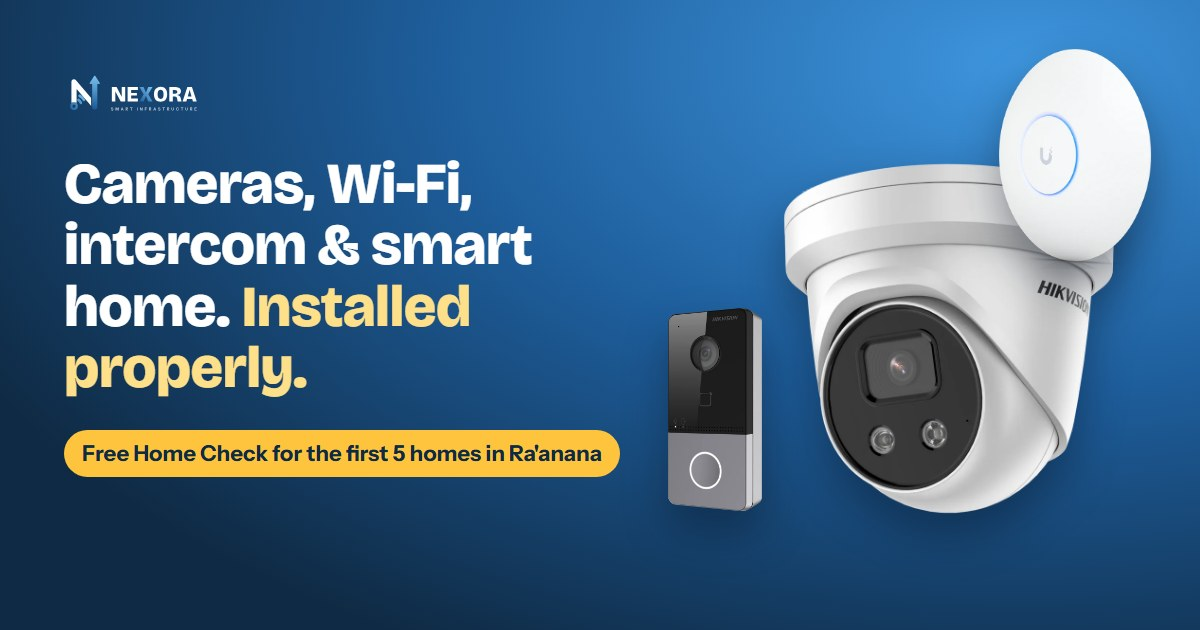
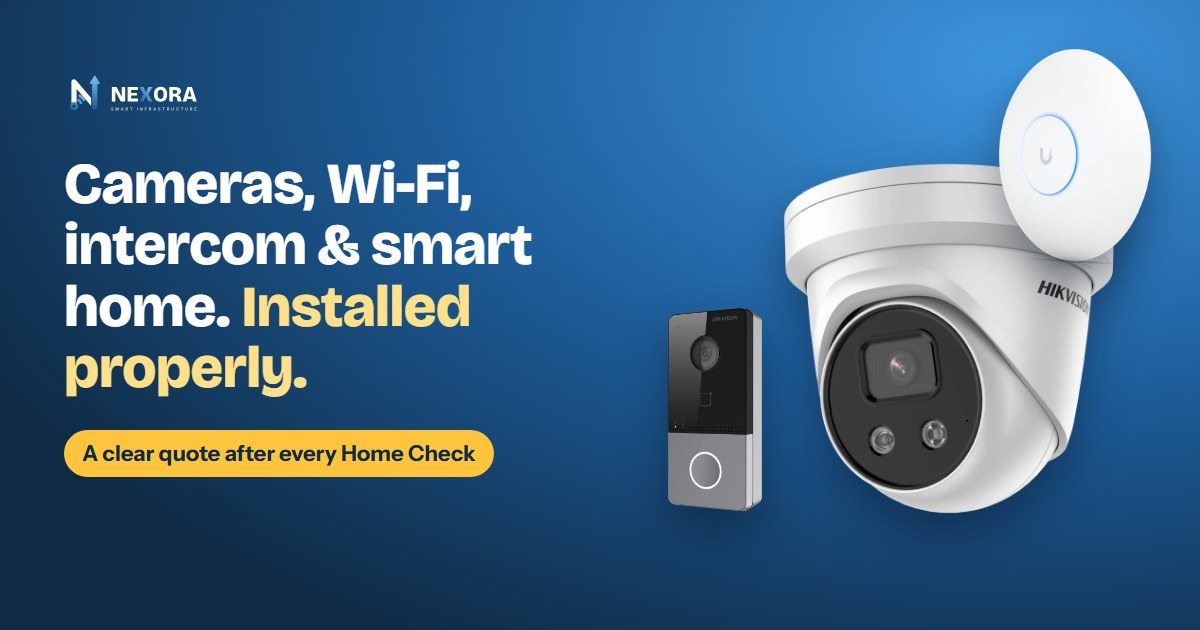
Remove the free Home Check offer (first 5 homes) from the site

Changed region(s): [[0.0617, 0.6635, 0.5242, 0.7841]]

diff --git a/he/index.html b/he/index.html
@@ -4,23 +4,23 @@
 <meta charset="utf-8">
 <meta name="viewport" content="width=device-width, initial-scale=1">
 <title>NEXORA · מצלמות, Wi-Fi ובית חכם ברעננה</title>
-<meta name="description" content="NEXORA מתקינה מצלמות אבטחה, Wi-Fi ורשת, אינטרקום וידאו ובית חכם ברעננה והשרון. בדיקת בית חינם ל-5 הבתים הראשונים.">
+<meta name="description" content="NEXORA מתקינה מצלמות אבטחה, Wi-Fi ורשת, אינטרקום וידאו ובית חכם ברעננה והשרון. בדיקת בית והצעת מחיר ברורה.">
 <link rel="canonical" href="https://nexoraraanana.github.io/he/"><link rel="alternate" hreflang="en" href="https://nexoraraanana.github.io/en/"><link rel="alternate" hreflang="fr" href="https://nexoraraanana.github.io/fr/"><link rel="alternate" hreflang="he" href="https://nexoraraanana.github.io/he/"><link rel="alternate" hreflang="x-default" href="https://nexoraraanana.github.io/">
 <meta property="og:type" content="website"><meta property="og:url" content="https://nexoraraanana.github.io/he/"><meta property="og:title" content="NEXORA · מצלמות, Wi-Fi ובית חכם ברעננה">
-<meta property="og:description" content="NEXORA מתקינה מצלמות אבטחה, Wi-Fi ורשת, אינטרקום וידאו ובית חכם ברעננה והשרון. בדיקת בית חינם ל-5 הבתים הראשונים."><meta property="og:image" content="https://nexoraraanana.github.io/img/og-he.jpg"><meta name="twitter:card" content="summary_large_image">
+<meta property="og:description" content="NEXORA מתקינה מצלמות אבטחה, Wi-Fi ורשת, אינטרקום וידאו ובית חכם ברעננה והשרון. בדיקת בית והצעת מחיר ברורה."><meta property="og:image" content="https://nexoraraanana.github.io/img/og-he.jpg"><meta name="twitter:card" content="summary_large_image">
 <meta name="theme-color" content="#0F2A44">
 <link rel="icon" href="../favicon.png"><link rel="apple-touch-icon" href="../apple-touch-icon.png">
 <link rel="preconnect" href="https://fonts.googleapis.com"><link rel="preconnect" href="https://fonts.gstatic.com" crossorigin>
 <link href="https://fonts.googleapis.com/css2?family=Bricolage+Grotesque:opsz,wght@12..96,700;12..96,800&family=Instrument+Sans:wght@400;600;700&family=Heebo:wght@400;600;700;800&display=swap" rel="stylesheet">
 <link rel="stylesheet" href="../site.css">
-<script type="application/ld+json">{"@context": "https://schema.org", "@type": "LocalBusiness", "name": "NEXORA", "description": "NEXORA מתקינה מצלמות אבטחה, Wi-Fi ורשת, אינטרקום וידאו ובית חכם ברעננה והשרון. בדיקת בית חינם ל-5 הבתים הראשונים.", "url": "https://nexoraraanana.github.io/he/", "telephone": "+972586497991", "email": "nexora.raanana@gmail.com", "image": "https://nexoraraanana.github.io/img/og-he.jpg", "sameAs": ["https://www.instagram.com/nexora.raanana/"], "inLanguage": "he", "areaServed": ["Ra'anana", "Kfar Saba", "Hod Hasharon", "Herzliya", "Sharon"]}</script>
+<script type="application/ld+json">{"@context": "https://schema.org", "@type": "LocalBusiness", "name": "NEXORA", "description": "NEXORA מתקינה מצלמות אבטחה, Wi-Fi ורשת, אינטרקום וידאו ובית חכם ברעננה והשרון. בדיקת בית והצעת מחיר ברורה.", "url": "https://nexoraraanana.github.io/he/", "telephone": "+972586497991", "email": "nexora.raanana@gmail.com", "image": "https://nexoraraanana.github.io/img/og-he.jpg", "sameAs": ["https://www.instagram.com/nexora.raanana/"], "inLanguage": "he", "areaServed": ["Ra'anana", "Kfar Saba", "Hod Hasharon", "Herzliya", "Sharon"]}</script>
 </head>
 <body>
 <header class="top"><div class="wrap">
   <a class="logo" href="./" aria-label="NEXORA"><img src="../img/logo.svg" alt="NEXORA" width="160" height="34"></a>
   <nav class="nav" aria-label="Menu"><a href="#services">שירותים</a><a href="#how">איך זה עובד</a><a href="#faq">שאלות</a><a href="#contact">צור קשר</a></nav>
   <div class="lang" aria-label="Language"><a href="../en/" lang="en">EN</a><a href="../fr/" lang="fr">FR</a><a href="../he/" lang="he" aria-current="page">עב</a></div>
-  <a class="btn wa" href="https://wa.me/972586497991?text=%D7%A9%D7%9C%D7%95%D7%9D%20NEXORA%2C%20%D7%90%D7%A9%D7%9E%D7%97%20%D7%9C%D7%91%D7%93%D7%99%D7%A7%D7%AA%20%D7%91%D7%99%D7%AA%20%D7%97%D7%99%D7%A0%D7%9D." target="_blank" rel="noopener"><svg viewBox="0 0 24 24" aria-hidden="true"><path d="M12 3a9 9 0 0 0-7.7 13.6L3 21l4.5-1.2A9 9 0 1 0 12 3z"/><path d="M9 8.5c0 3.6 2.9 6.5 6.5 6.5l1-1.6-2-1-1 1a4.5 4.5 0 0 1-2.4-2.4l1-1-1-2z"/></svg><span>058-649-7991</span></a>
+  <a class="btn wa" href="https://wa.me/972586497991?text=%D7%A9%D7%9C%D7%95%D7%9D%20NEXORA%2C%20%D7%90%D7%A9%D7%9E%D7%97%20%D7%9C%D7%AA%D7%90%D7%9D%20%D7%91%D7%93%D7%99%D7%A7%D7%AA%20%D7%91%D7%99%D7%AA." target="_blank" rel="noopener"><svg viewBox="0 0 24 24" aria-hidden="true"><path d="M12 3a9 9 0 0 0-7.7 13.6L3 21l4.5-1.2A9 9 0 1 0 12 3z"/><path d="M9 8.5c0 3.6 2.9 6.5 6.5 6.5l1-1.6-2-1-1 1a4.5 4.5 0 0 1-2.4-2.4l1-1-1-2z"/></svg><span>058-649-7991</span></a>
 </div></header>
 <main class="wrap">
   <section class="hero"><div class="in">
@@ -28,8 +28,8 @@
       <div class="kicker">תשתיות חכמות · רעננה והשרון</div>
       <h1>מצלמות, Wi-Fi, אינטרקום ובית חכם. <em>בהתקנה מקצועית.</em></h1>
       <p class="sub">NEXORA מתכננת ומתקינה תשתיות חכמות לבתים ולעסקים: Wi-Fi מהיר בכל חדר, מצלמות מאובטחות, אינטרקום וידאו ואוטומציות.</p>
-      <div class="ctas"><a class="btn wa" href="https://wa.me/972586497991?text=%D7%A9%D7%9C%D7%95%D7%9D%20NEXORA%2C%20%D7%90%D7%A9%D7%9E%D7%97%20%D7%9C%D7%91%D7%93%D7%99%D7%A7%D7%AA%20%D7%91%D7%99%D7%AA%20%D7%97%D7%99%D7%A0%D7%9D." target="_blank" rel="noopener"><svg viewBox="0 0 24 24" aria-hidden="true"><path d="M12 3a9 9 0 0 0-7.7 13.6L3 21l4.5-1.2A9 9 0 1 0 12 3z"/><path d="M9 8.5c0 3.6 2.9 6.5 6.5 6.5l1-1.6-2-1-1 1a4.5 4.5 0 0 1-2.4-2.4l1-1-1-2z"/></svg>דברו איתנו בוואטסאפ</a><a class="btn ghost" href="#book">לבדיקת בית חינם</a></div>
-      <div class="offer"><svg viewBox="0 0 24 24" aria-hidden="true"><path d="M5 12.5l4.5 4.5L19 7.5"/></svg>בדיקת בית חינם ל-5 הבתים הראשונים ברעננה</div>
+      <div class="ctas"><a class="btn wa" href="https://wa.me/972586497991?text=%D7%A9%D7%9C%D7%95%D7%9D%20NEXORA%2C%20%D7%90%D7%A9%D7%9E%D7%97%20%D7%9C%D7%AA%D7%90%D7%9D%20%D7%91%D7%93%D7%99%D7%A7%D7%AA%20%D7%91%D7%99%D7%AA." target="_blank" rel="noopener"><svg viewBox="0 0 24 24" aria-hidden="true"><path d="M12 3a9 9 0 0 0-7.7 13.6L3 21l4.5-1.2A9 9 0 1 0 12 3z"/><path d="M9 8.5c0 3.6 2.9 6.5 6.5 6.5l1-1.6-2-1-1 1a4.5 4.5 0 0 1-2.4-2.4l1-1-1-2z"/></svg>דברו איתנו בוואטסאפ</a><a class="btn ghost" href="#book">לתיאום בדיקת בית</a></div>
+      <div class="offer"><svg viewBox="0 0 24 24" aria-hidden="true"><path d="M5 12.5l4.5 4.5L19 7.5"/></svg>הצעת מחיר ברורה אחרי כל בדיקת בית</div>
     </div>
     <div class="stage" aria-hidden="true">
       <img class="i-villa" src="../img/villa.webp" alt="" width="200" height="400"><img class="i-turret" src="../img/turret.webp" alt="" width="400" height="420">
@@ -44,8 +44,8 @@
     <h3 class="h2" style="font-size:26px;margin-top:46px">למה NEXORA</h3><div class="why"><div><svg viewBox="0 0 24 24" aria-hidden="true"><path d="M12 21s-7-6.2-7-11.5a7 7 0 0 1 14 0C19 14.8 12 21 12 21z"/><circle cx="12" cy="9.5" r="2.5"/></svg><b>מקומיים, ברעננה</b><p>קרובים אליכם בהתקנה, וגם אחריה.</p></div><div><svg viewBox="0 0 24 24" aria-hidden="true"><path d="M4 5h16v11H9l-5 4z"/></svg><b>עברית, אנגלית וצרפתית</b><p>מדברים איתכם בשפה שלכם.</p></div><div><svg viewBox="0 0 24 24" aria-hidden="true"><path d="M12 3l8 3v6c0 4.8-3.4 8-8 9.5C7.4 20 4 16.8 4 12V6z"/><path d="M8.5 12l2.5 2.5 4.5-5"/></svg><b>מאובטח כברירת מחדל</b><p>רשת נפרדת למצלמות, קושחה מעודכנת, בלי פורטים פתוחים.</p></div><div><svg viewBox="0 0 24 24" aria-hidden="true"><path d="M3 11l9-7 9 7"/><path d="M5 10v10h14V10"/><path d="M10 20v-5h4v5"/></svg><b>המידע נשאר אצלכם</b><p>הקלטה ואוטומציות מקומיות, בלי חובת מנוי.</p></div></div></section>
 
   <section class="block" id="book"><div class="book">
-    <div><h2 class="h2">תיאום בדיקת בית חינם</h2><p class="lead">שלושה פרטים ואנחנו עונים בוואטסאפ.</p><div class="offer" style="margin-top:18px"><svg viewBox="0 0 24 24" aria-hidden="true"><path d="M5 12.5l4.5 4.5L19 7.5"/></svg>בדיקת בית חינם ל-5 הבתים הראשונים ברעננה</div></div>
-    <form class="form" data-wa="972586497991" data-tpl="שלום NEXORA, אשמח לבדיקת בית חינם.
+    <div><h2 class="h2">תיאום בדיקת בית</h2><p class="lead">שלושה פרטים ואנחנו עונים בוואטסאפ.</p><div class="offer" style="margin-top:18px"><svg viewBox="0 0 24 24" aria-hidden="true"><path d="M5 12.5l4.5 4.5L19 7.5"/></svg>הצעת מחיר ברורה אחרי כל בדיקת בית</div></div>
+    <form class="form" data-wa="972586497991" data-tpl="שלום NEXORA, אשמח לתאם בדיקת בית.
 שם: {name}
 עיר: {city}
 נושא: {needs}
@@ -59,11 +59,11 @@
     </form>
   </div></section>
 
-  <section class="block" id="faq"><h2 class="h2">שאלות נפוצות</h2><div class="faq"><details><summary>באילו אזורים אתם עובדים?</summary><p>רעננה, כפר סבא, הוד השרון, הרצליה וכל אזור השרון.</p></details><details><summary>כמה עולה בדיקת הבית?</summary><p>חינם ל-5 הבתים הראשונים ברעננה. אחרי הביקור מקבלים הצעת מחיר ברורה, בלי התחייבות.</p></details><details><summary>צריך מנוי חודשי למצלמות?</summary><p>לא. ההקלטה נשמרת אצלכם, במקליט. אפליקציות היצרנים לצפייה מרחוק חינמיות, ואחסון בענן הוא אופציה.</p></details><details><summary>אפשר להשתמש בכבלים או בצנרת הקיימים?</summary><p>לעיתים קרובות כן: בודקים לאן הצנרת מובילה ומשחילים Cat6 כשהיא מאפשרת.</p></details><details><summary>ומה לגבי עבודות חשמל?</summary><p>כל עבודה על רשת ה-230V מבוצעת על ידי חשמלאי מוסמך.</p></details><details><summary>אתם עובדים גם עם עסקים?</summary><p>כן: חנויות, משרדים, קליניקות ודירות להשכרה, וגם בתים פרטיים.</p></details></div></section>
+  <section class="block" id="faq"><h2 class="h2">שאלות נפוצות</h2><div class="faq"><details><summary>באילו אזורים אתם עובדים?</summary><p>רעננה, כפר סבא, הוד השרון, הרצליה וכל אזור השרון.</p></details><details><summary>מה כוללת בדיקת הבית?</summary><p>ביקור של כשעה: מדידת Wi-Fi בכל חדר, ואז בדיקה של המצלמות, הכבילה והבית החכם. אחרי הביקור מקבלים הצעת מחיר ברורה, בלי התחייבות.</p></details><details><summary>צריך מנוי חודשי למצלמות?</summary><p>לא. ההקלטה נשמרת אצלכם, במקליט. אפליקציות היצרנים לצפייה מרחוק חינמיות, ואחסון בענן הוא אופציה.</p></details><details><summary>אפשר להשתמש בכבלים או בצנרת הקיימים?</summary><p>לעיתים קרובות כן: בודקים לאן הצנרת מובילה ומשחילים Cat6 כשהיא מאפשרת.</p></details><details><summary>ומה לגבי עבודות חשמל?</summary><p>כל עבודה על רשת ה-230V מבוצעת על ידי חשמלאי מוסמך.</p></details><details><summary>אתם עובדים גם עם עסקים?</summary><p>כן: חנויות, משרדים, קליניקות ודירות להשכרה, וגם בתים פרטיים.</p></details></div></section>
 
   <section class="contact" id="contact">
     <div><h2 class="h2">צור קשר</h2><p style="margin-top:10px;color:#B9CADB">רעננה והשרון</p>
-      <a class="btn wa" style="margin-top:20px" href="https://wa.me/972586497991?text=%D7%A9%D7%9C%D7%95%D7%9D%20NEXORA%2C%20%D7%90%D7%A9%D7%9E%D7%97%20%D7%9C%D7%91%D7%93%D7%99%D7%A7%D7%AA%20%D7%91%D7%99%D7%AA%20%D7%97%D7%99%D7%A0%D7%9D." target="_blank" rel="noopener"><svg viewBox="0 0 24 24" aria-hidden="true"><path d="M12 3a9 9 0 0 0-7.7 13.6L3 21l4.5-1.2A9 9 0 1 0 12 3z"/><path d="M9 8.5c0 3.6 2.9 6.5 6.5 6.5l1-1.6-2-1-1 1a4.5 4.5 0 0 1-2.4-2.4l1-1-1-2z"/></svg>דברו איתנו בוואטסאפ</a></div>
+      <a class="btn wa" style="margin-top:20px" href="https://wa.me/972586497991?text=%D7%A9%D7%9C%D7%95%D7%9D%20NEXORA%2C%20%D7%90%D7%A9%D7%9E%D7%97%20%D7%9C%D7%AA%D7%90%D7%9D%20%D7%91%D7%93%D7%99%D7%A7%D7%AA%20%D7%91%D7%99%D7%AA." target="_blank" rel="noopener"><svg viewBox="0 0 24 24" aria-hidden="true"><path d="M12 3a9 9 0 0 0-7.7 13.6L3 21l4.5-1.2A9 9 0 1 0 12 3z"/><path d="M9 8.5c0 3.6 2.9 6.5 6.5 6.5l1-1.6-2-1-1 1a4.5 4.5 0 0 1-2.4-2.4l1-1-1-2z"/></svg>דברו איתנו בוואטסאפ</a></div>
     <ul>
       <li><a href="tel:+972586497991"><svg viewBox="0 0 24 24" aria-hidden="true"><path d="M5 4h4l2 5-2.5 1.5a11 11 0 0 0 5 5L15 13l5 2v4a2 2 0 0 1-2 2A16 16 0 0 1 3 6a2 2 0 0 1 2-2z"/></svg><span dir="ltr">058-649-7991</span></a></li>
       <li><a href="mailto:nexora.raanana@gmail.com"><svg viewBox="0 0 24 24" aria-hidden="true"><rect x="3" y="5" width="18" height="14" rx="2"/><path d="M3 7l9 6 9-6"/></svg>nexora.raanana@gmail.com</a></li>
@@ -72,7 +72,7 @@
   </section>
 </main>
 <footer>© 2026 NEXORA · תשתיות חכמות · רעננה</footer>
-<a class="fab" href="https://wa.me/972586497991?text=%D7%A9%D7%9C%D7%95%D7%9D%20NEXORA%2C%20%D7%90%D7%A9%D7%9E%D7%97%20%D7%9C%D7%91%D7%93%D7%99%D7%A7%D7%AA%20%D7%91%D7%99%D7%AA%20%D7%97%D7%99%D7%A0%D7%9D." target="_blank" rel="noopener" aria-label="WhatsApp"><svg viewBox="0 0 24 24" aria-hidden="true"><path d="M12 3a9 9 0 0 0-7.7 13.6L3 21l4.5-1.2A9 9 0 1 0 12 3z"/><path d="M9 8.5c0 3.6 2.9 6.5 6.5 6.5l1-1.6-2-1-1 1a4.5 4.5 0 0 1-2.4-2.4l1-1-1-2z"/></svg></a>
+<a class="fab" href="https://wa.me/972586497991?text=%D7%A9%D7%9C%D7%95%D7%9D%20NEXORA%2C%20%D7%90%D7%A9%D7%9E%D7%97%20%D7%9C%D7%AA%D7%90%D7%9D%20%D7%91%D7%93%D7%99%D7%A7%D7%AA%20%D7%91%D7%99%D7%AA." target="_blank" rel="noopener" aria-label="WhatsApp"><svg viewBox="0 0 24 24" aria-hidden="true"><path d="M12 3a9 9 0 0 0-7.7 13.6L3 21l4.5-1.2A9 9 0 1 0 12 3z"/><path d="M9 8.5c0 3.6 2.9 6.5 6.5 6.5l1-1.6-2-1-1 1a4.5 4.5 0 0 1-2.4-2.4l1-1-1-2z"/></svg></a>
 <script src="../site.js"></script>
 </body>
 </html>

diff --git a/fr/index.html b/fr/index.html
@@ -4,23 +4,23 @@
 <meta charset="utf-8">
 <meta name="viewport" content="width=device-width, initial-scale=1">
 <title>NEXORA · Caméras, Wi-Fi et maison connectée à Ra&#x27;anana</title>
-<meta name="description" content="NEXORA installe caméras de sécurité, Wi-Fi et Ethernet, interphones vidéo et maison connectée à Ra&#x27;anana et dans le Sharon. Home Check offert aux 5 premières maisons.">
+<meta name="description" content="NEXORA installe caméras de sécurité, Wi-Fi et Ethernet, interphones vidéo et maison connectée à Ra&#x27;anana et dans le Sharon. Home Check sur place et devis clair.">
 <link rel="canonical" href="https://nexoraraanana.github.io/fr/"><link rel="alternate" hreflang="en" href="https://nexoraraanana.github.io/en/"><link rel="alternate" hreflang="fr" href="https://nexoraraanana.github.io/fr/"><link rel="alternate" hreflang="he" href="https://nexoraraanana.github.io/he/"><link rel="alternate" hreflang="x-default" href="https://nexoraraanana.github.io/">
 <meta property="og:type" content="website"><meta property="og:url" content="https://nexoraraanana.github.io/fr/"><meta property="og:title" content="NEXORA · Caméras, Wi-Fi et maison connectée à Ra&#x27;anana">
-<meta property="og:description" content="NEXORA installe caméras de sécurité, Wi-Fi et Ethernet, interphones vidéo et maison connectée à Ra&#x27;anana et dans le Sharon. Home Check offert aux 5 premières maisons."><meta property="og:image" content="https://nexoraraanana.github.io/img/og-fr.jpg"><meta name="twitter:card" content="summary_large_image">
+<meta property="og:description" content="NEXORA installe caméras de sécurité, Wi-Fi et Ethernet, interphones vidéo et maison connectée à Ra&#x27;anana et dans le Sharon. Home Check sur place et devis clair."><meta property="og:image" content="https://nexoraraanana.github.io/img/og-fr.jpg"><meta name="twitter:card" content="summary_large_image">
 <meta name="theme-color" content="#0F2A44">
 <link rel="icon" href="../favicon.png"><link rel="apple-touch-icon" href="../apple-touch-icon.png">
 <link rel="preconnect" href="https://fonts.googleapis.com"><link rel="preconnect" href="https://fonts.gstatic.com" crossorigin>
 <link href="https://fonts.googleapis.com/css2?family=Bricolage+Grotesque:opsz,wght@12..96,700;12..96,800&family=Instrument+Sans:wght@400;600;700&family=Heebo:wght@400;600;700;800&display=swap" rel="stylesheet">
 <link rel="stylesheet" href="../site.css">
-<script type="application/ld+json">{"@context": "https://schema.org", "@type": "LocalBusiness", "name": "NEXORA", "description": "NEXORA installe caméras de sécurité, Wi-Fi et Ethernet, interphones vidéo et maison connectée à Ra'anana et dans le Sharon. Home Check offert aux 5 premières maisons.", "url": "https://nexoraraanana.github.io/fr/", "telephone": "+972586497991", "email": "nexora.raanana@gmail.com", "image": "https://nexoraraanana.github.io/img/og-fr.jpg", "sameAs": ["https://www.instagram.com/nexora.raanana/"], "inLanguage": "fr", "areaServed": ["Ra'anana", "Kfar Saba", "Hod Hasharon", "Herzliya", "Sharon"]}</script>
+<script type="application/ld+json">{"@context": "https://schema.org", "@type": "LocalBusiness", "name": "NEXORA", "description": "NEXORA installe caméras de sécurité, Wi-Fi et Ethernet, interphones vidéo et maison connectée à Ra'anana et dans le Sharon. Home Check sur place et devis clair.", "url": "https://nexoraraanana.github.io/fr/", "telephone": "+972586497991", "email": "nexora.raanana@gmail.com", "image": "https://nexoraraanana.github.io/img/og-fr.jpg", "sameAs": ["https://www.instagram.com/nexora.raanana/"], "inLanguage": "fr", "areaServed": ["Ra'anana", "Kfar Saba", "Hod Hasharon", "Herzliya", "Sharon"]}</script>
 </head>
 <body>
 <header class="top"><div class="wrap">
   <a class="logo" href="./" aria-label="NEXORA"><img src="../img/logo.svg" alt="NEXORA" width="160" height="34"></a>
   <nav class="nav" aria-label="Menu"><a href="#services">Services</a><a href="#how">Comment ça marche</a><a href="#faq">Questions</a><a href="#contact">Contact</a></nav>
   <div class="lang" aria-label="Language"><a href="../en/" lang="en">EN</a><a href="../fr/" lang="fr" aria-current="page">FR</a><a href="../he/" lang="he">עב</a></div>
-  <a class="btn wa" href="https://wa.me/972586497991?text=Bonjour%20NEXORA%2C%20je%20voudrais%20un%20Home%20Check%20offert." target="_blank" rel="noopener"><svg viewBox="0 0 24 24" aria-hidden="true"><path d="M12 3a9 9 0 0 0-7.7 13.6L3 21l4.5-1.2A9 9 0 1 0 12 3z"/><path d="M9 8.5c0 3.6 2.9 6.5 6.5 6.5l1-1.6-2-1-1 1a4.5 4.5 0 0 1-2.4-2.4l1-1-1-2z"/></svg><span>058-649-7991</span></a>
+  <a class="btn wa" href="https://wa.me/972586497991?text=Bonjour%20NEXORA%2C%20je%20voudrais%20r%C3%A9server%20un%20Home%20Check." target="_blank" rel="noopener"><svg viewBox="0 0 24 24" aria-hidden="true"><path d="M12 3a9 9 0 0 0-7.7 13.6L3 21l4.5-1.2A9 9 0 1 0 12 3z"/><path d="M9 8.5c0 3.6 2.9 6.5 6.5 6.5l1-1.6-2-1-1 1a4.5 4.5 0 0 1-2.4-2.4l1-1-1-2z"/></svg><span>058-649-7991</span></a>
 </div></header>
 <main class="wrap">
   <section class="hero"><div class="in">
@@ -28,8 +28,8 @@
       <div class="kicker">Smart Infrastructure · Ra'anana et le Sharon</div>
       <h1>Caméras, Wi-Fi, interphone et maison connectée. <em>Installés proprement.</em></h1>
       <p class="sub">NEXORA conçoit et installe l'infrastructure intelligente des maisons et des commerces : du Wi-Fi rapide dans chaque pièce, des caméras sécurisées, des interphones vidéo et des automatisations.</p>
-      <div class="ctas"><a class="btn wa" href="https://wa.me/972586497991?text=Bonjour%20NEXORA%2C%20je%20voudrais%20un%20Home%20Check%20offert." target="_blank" rel="noopener"><svg viewBox="0 0 24 24" aria-hidden="true"><path d="M12 3a9 9 0 0 0-7.7 13.6L3 21l4.5-1.2A9 9 0 1 0 12 3z"/><path d="M9 8.5c0 3.6 2.9 6.5 6.5 6.5l1-1.6-2-1-1 1a4.5 4.5 0 0 1-2.4-2.4l1-1-1-2z"/></svg>Écrivez-nous sur WhatsApp</a><a class="btn ghost" href="#book">Réserver un Home Check offert</a></div>
-      <div class="offer"><svg viewBox="0 0 24 24" aria-hidden="true"><path d="M5 12.5l4.5 4.5L19 7.5"/></svg>Home Check offert aux 5 premières maisons de Ra'anana</div>
+      <div class="ctas"><a class="btn wa" href="https://wa.me/972586497991?text=Bonjour%20NEXORA%2C%20je%20voudrais%20r%C3%A9server%20un%20Home%20Check." target="_blank" rel="noopener"><svg viewBox="0 0 24 24" aria-hidden="true"><path d="M12 3a9 9 0 0 0-7.7 13.6L3 21l4.5-1.2A9 9 0 1 0 12 3z"/><path d="M9 8.5c0 3.6 2.9 6.5 6.5 6.5l1-1.6-2-1-1 1a4.5 4.5 0 0 1-2.4-2.4l1-1-1-2z"/></svg>Écrivez-nous sur WhatsApp</a><a class="btn ghost" href="#book">Réserver un Home Check</a></div>
+      <div class="offer"><svg viewBox="0 0 24 24" aria-hidden="true"><path d="M5 12.5l4.5 4.5L19 7.5"/></svg>Un devis clair après chaque Home Check</div>
     </div>
     <div class="stage" aria-hidden="true">
       <img class="i-villa" src="../img/villa.webp" alt="" width="200" height="400"><img class="i-turret" src="../img/turret.webp" alt="" width="400" height="420">
@@ -44,8 +44,8 @@
     <h3 class="h2" style="font-size:26px;margin-top:46px">Pourquoi NEXORA</h3><div class="why"><div><svg viewBox="0 0 24 24" aria-hidden="true"><path d="M12 21s-7-6.2-7-11.5a7 7 0 0 1 14 0C19 14.8 12 21 12 21z"/><circle cx="12" cy="9.5" r="2.5"/></svg><b>Local, à Ra'anana</b><p>À côté de chez vous pour l'installation, et après.</p></div><div><svg viewBox="0 0 24 24" aria-hidden="true"><path d="M4 5h16v11H9l-5 4z"/></svg><b>Français, anglais, hébreu</b><p>Parlez-nous dans votre langue.</p></div><div><svg viewBox="0 0 24 24" aria-hidden="true"><path d="M12 3l8 3v6c0 4.8-3.4 8-8 9.5C7.4 20 4 16.8 4 12V6z"/><path d="M8.5 12l2.5 2.5 4.5-5"/></svg><b>Sécurisé par défaut</b><p>Un réseau séparé pour les caméras, un firmware à jour, aucun port ouvert.</p></div><div><svg viewBox="0 0 24 24" aria-hidden="true"><path d="M3 11l9-7 9 7"/><path d="M5 10v10h14V10"/><path d="M10 20v-5h4v5"/></svg><b>Vos données restent chez vous</b><p>Enregistrement et automatisations en local, sans abonnement obligatoire.</p></div></div></section>
 
   <section class="block" id="book"><div class="book">
-    <div><h2 class="h2">Réservez votre Home Check offert</h2><p class="lead">Trois informations et on vous répond sur WhatsApp.</p><div class="offer" style="margin-top:18px"><svg viewBox="0 0 24 24" aria-hidden="true"><path d="M5 12.5l4.5 4.5L19 7.5"/></svg>Home Check offert aux 5 premières maisons de Ra'anana</div></div>
-    <form class="form" data-wa="972586497991" data-tpl="Bonjour NEXORA, je voudrais un Home Check offert.
+    <div><h2 class="h2">Réservez votre Home Check</h2><p class="lead">Trois informations et on vous répond sur WhatsApp.</p><div class="offer" style="margin-top:18px"><svg viewBox="0 0 24 24" aria-hidden="true"><path d="M5 12.5l4.5 4.5L19 7.5"/></svg>Un devis clair après chaque Home Check</div></div>
+    <form class="form" data-wa="972586497991" data-tpl="Bonjour NEXORA, je voudrais réserver un Home Check.
 Nom : {name}
 Ville : {city}
 Sujet : {needs}
@@ -59,11 +59,11 @@ Sujet : {needs}
     </form>
   </div></section>
 
-  <section class="block" id="faq"><h2 class="h2">Questions fréquentes</h2><div class="faq"><details><summary>Où intervenez-vous ?</summary><p>Ra'anana, Kfar Saba, Hod Hasharon, Herzliya et tout le Sharon.</p></details><details><summary>Combien coûte le Home Check ?</summary><p>Il est offert aux 5 premières maisons de Ra'anana. Après la visite, vous recevez un devis clair, sans engagement.</p></details><details><summary>Faut-il un abonnement pour les caméras ?</summary><p>Non. L'enregistrement se fait chez vous, sur l'enregistreur. Les applis des fabricants pour regarder à distance sont gratuites ; le stockage dans le cloud est une option.</p></details><details><summary>Pouvez-vous utiliser mes gaines ou mes câbles existants ?</summary><p>Souvent, oui : on vérifie où vont les gaines existantes et on y passe du Cat6 quand elles le permettent.</p></details><details><summary>Et l'électricité ?</summary><p>Tout travail sur le réseau 230 V est réalisé par un électricien agréé.</p></details><details><summary>Travaillez-vous avec les entreprises ?</summary><p>Oui : commerces, bureaux, cabinets et locations, en plus des maisons.</p></details></div></section>
+  <section class="block" id="faq"><h2 class="h2">Questions fréquentes</h2><div class="faq"><details><summary>Où intervenez-vous ?</summary><p>Ra'anana, Kfar Saba, Hod Hasharon, Herzliya et tout le Sharon.</p></details><details><summary>Comment se passe le Home Check ?</summary><p>Nous venons environ une heure : Wi-Fi mesuré pièce par pièce, puis caméras, câblage et maison connectée. Après la visite, vous recevez un devis clair, sans engagement.</p></details><details><summary>Faut-il un abonnement pour les caméras ?</summary><p>Non. L'enregistrement se fait chez vous, sur l'enregistreur. Les applis des fabricants pour regarder à distance sont gratuites ; le stockage dans le cloud est une option.</p></details><details><summary>Pouvez-vous utiliser mes gaines ou mes câbles existants ?</summary><p>Souvent, oui : on vérifie où vont les gaines existantes et on y passe du Cat6 quand elles le permettent.</p></details><details><summary>Et l'électricité ?</summary><p>Tout travail sur le réseau 230 V est réalisé par un électricien agréé.</p></details><details><summary>Travaillez-vous avec les entreprises ?</summary><p>Oui : commerces, bureaux, cabinets et locations, en plus des maisons.</p></details></div></section>
 
   <section class="contact" id="contact">
     <div><h2 class="h2">Contact</h2><p style="margin-top:10px;color:#B9CADB">Ra'anana et le Sharon</p>
-      <a class="btn wa" style="margin-top:20px" href="https://wa.me/972586497991?text=Bonjour%20NEXORA%2C%20je%20voudrais%20un%20Home%20Check%20offert." target="_blank" rel="noopener"><svg viewBox="0 0 24 24" aria-hidden="true"><path d="M12 3a9 9 0 0 0-7.7 13.6L3 21l4.5-1.2A9 9 0 1 0 12 3z"/><path d="M9 8.5c0 3.6 2.9 6.5 6.5 6.5l1-1.6-2-1-1 1a4.5 4.5 0 0 1-2.4-2.4l1-1-1-2z"/></svg>Écrivez-nous sur WhatsApp</a></div>
+      <a class="btn wa" style="margin-top:20px" href="https://wa.me/972586497991?text=Bonjour%20NEXORA%2C%20je%20voudrais%20r%C3%A9server%20un%20Home%20Check." target="_blank" rel="noopener"><svg viewBox="0 0 24 24" aria-hidden="true"><path d="M12 3a9 9 0 0 0-7.7 13.6L3 21l4.5-1.2A9 9 0 1 0 12 3z"/><path d="M9 8.5c0 3.6 2.9 6.5 6.5 6.5l1-1.6-2-1-1 1a4.5 4.5 0 0 1-2.4-2.4l1-1-1-2z"/></svg>Écrivez-nous sur WhatsApp</a></div>
     <ul>
       <li><a href="tel:+972586497991"><svg viewBox="0 0 24 24" aria-hidden="true"><path d="M5 4h4l2 5-2.5 1.5a11 11 0 0 0 5 5L15 13l5 2v4a2 2 0 0 1-2 2A16 16 0 0 1 3 6a2 2 0 0 1 2-2z"/></svg><span dir="ltr">058-649-7991</span></a></li>
       <li><a href="mailto:nexora.raanana@gmail.com"><svg viewBox="0 0 24 24" aria-hidden="true"><rect x="3" y="5" width="18" height="14" rx="2"/><path d="M3 7l9 6 9-6"/></svg>nexora.raanana@gmail.com</a></li>
@@ -72,7 +72,7 @@ Sujet : {needs}
   </section>
 </main>
 <footer>© 2026 NEXORA · Smart Infrastructure · Ra'anana</footer>
-<a class="fab" href="https://wa.me/972586497991?text=Bonjour%20NEXORA%2C%20je%20voudrais%20un%20Home%20Check%20offert." target="_blank" rel="noopener" aria-label="WhatsApp"><svg viewBox="0 0 24 24" aria-hidden="true"><path d="M12 3a9 9 0 0 0-7.7 13.6L3 21l4.5-1.2A9 9 0 1 0 12 3z"/><path d="M9 8.5c0 3.6 2.9 6.5 6.5 6.5l1-1.6-2-1-1 1a4.5 4.5 0 0 1-2.4-2.4l1-1-1-2z"/></svg></a>
+<a class="fab" href="https://wa.me/972586497991?text=Bonjour%20NEXORA%2C%20je%20voudrais%20r%C3%A9server%20un%20Home%20Check." target="_blank" rel="noopener" aria-label="WhatsApp"><svg viewBox="0 0 24 24" aria-hidden="true"><path d="M12 3a9 9 0 0 0-7.7 13.6L3 21l4.5-1.2A9 9 0 1 0 12 3z"/><path d="M9 8.5c0 3.6 2.9 6.5 6.5 6.5l1-1.6-2-1-1 1a4.5 4.5 0 0 1-2.4-2.4l1-1-1-2z"/></svg></a>
 <script src="../site.js"></script>
 </body>
 </html>

diff --git a/en/index.html b/en/index.html
@@ -4,23 +4,23 @@
 <meta charset="utf-8">
 <meta name="viewport" content="width=device-width, initial-scale=1">
 <title>NEXORA · Cameras, Wi-Fi &amp; smart home in Ra&#x27;anana</title>
-<meta name="description" content="NEXORA installs security cameras, Wi-Fi and Ethernet, video intercoms and smart home systems in Ra&#x27;anana and the Sharon. Free Home Check for the first 5 homes.">
+<meta name="description" content="NEXORA installs security cameras, Wi-Fi and Ethernet, video intercoms and smart home systems in Ra&#x27;anana and the Sharon. Home Check visit and a clear quote.">
 <link rel="canonical" href="https://nexoraraanana.github.io/en/"><link rel="alternate" hreflang="en" href="https://nexoraraanana.github.io/en/"><link rel="alternate" hreflang="fr" href="https://nexoraraanana.github.io/fr/"><link rel="alternate" hreflang="he" href="https://nexoraraanana.github.io/he/"><link rel="alternate" hreflang="x-default" href="https://nexoraraanana.github.io/">
 <meta property="og:type" content="website"><meta property="og:url" content="https://nexoraraanana.github.io/en/"><meta property="og:title" content="NEXORA · Cameras, Wi-Fi &amp; smart home in Ra&#x27;anana">
-<meta property="og:description" content="NEXORA installs security cameras, Wi-Fi and Ethernet, video intercoms and smart home systems in Ra&#x27;anana and the Sharon. Free Home Check for the first 5 homes."><meta property="og:image" content="https://nexoraraanana.github.io/img/og-en.jpg"><meta name="twitter:card" content="summary_large_image">
+<meta property="og:description" content="NEXORA installs security cameras, Wi-Fi and Ethernet, video intercoms and smart home systems in Ra&#x27;anana and the Sharon. Home Check visit and a clear quote."><meta property="og:image" content="https://nexoraraanana.github.io/img/og-en.jpg"><meta name="twitter:card" content="summary_large_image">
 <meta name="theme-color" content="#0F2A44">
 <link rel="icon" href="../favicon.png"><link rel="apple-touch-icon" href="../apple-touch-icon.png">
 <link rel="preconnect" href="https://fonts.googleapis.com"><link rel="preconnect" href="https://fonts.gstatic.com" crossorigin>
 <link href="https://fonts.googleapis.com/css2?family=Bricolage+Grotesque:opsz,wght@12..96,700;12..96,800&family=Instrument+Sans:wght@400;600;700&family=Heebo:wght@400;600;700;800&display=swap" rel="stylesheet">
 <link rel="stylesheet" href="../site.css">
-<script type="application/ld+json">{"@context": "https://schema.org", "@type": "LocalBusiness", "name": "NEXORA", "description": "NEXORA installs security cameras, Wi-Fi and Ethernet, video intercoms and smart home systems in Ra'anana and the Sharon. Free Home Check for the first 5 homes.", "url": "https://nexoraraanana.github.io/en/", "telephone": "+972586497991", "email": "nexora.raanana@gmail.com", "image": "https://nexoraraanana.github.io/img/og-en.jpg", "sameAs": ["https://www.instagram.com/nexora.raanana/"], "inLanguage": "en", "areaServed": ["Ra'anana", "Kfar Saba", "Hod Hasharon", "Herzliya", "Sharon"]}</script>
+<script type="application/ld+json">{"@context": "https://schema.org", "@type": "LocalBusiness", "name": "NEXORA", "description": "NEXORA installs security cameras, Wi-Fi and Ethernet, video intercoms and smart home systems in Ra'anana and the Sharon. Home Check visit and a clear quote.", "url": "https://nexoraraanana.github.io/en/", "telephone": "+972586497991", "email": "nexora.raanana@gmail.com", "image": "https://nexoraraanana.github.io/img/og-en.jpg", "sameAs": ["https://www.instagram.com/nexora.raanana/"], "inLanguage": "en", "areaServed": ["Ra'anana", "Kfar Saba", "Hod Hasharon", "Herzliya", "Sharon"]}</script>
 </head>
 <body>
 <header class="top"><div class="wrap">
   <a class="logo" href="./" aria-label="NEXORA"><img src="../img/logo.svg" alt="NEXORA" width="160" height="34"></a>
   <nav class="nav" aria-label="Menu"><a href="#services">Services</a><a href="#how">How it works</a><a href="#faq">Questions</a><a href="#contact">Contact</a></nav>
   <div class="lang" aria-label="Language"><a href="../en/" lang="en" aria-current="page">EN</a><a href="../fr/" lang="fr">FR</a><a href="../he/" lang="he">עב</a></div>
-  <a class="btn wa" href="https://wa.me/972586497991?text=Hi%20NEXORA%2C%20I%27d%20like%20a%20free%20Home%20Check." target="_blank" rel="noopener"><svg viewBox="0 0 24 24" aria-hidden="true"><path d="M12 3a9 9 0 0 0-7.7 13.6L3 21l4.5-1.2A9 9 0 1 0 12 3z"/><path d="M9 8.5c0 3.6 2.9 6.5 6.5 6.5l1-1.6-2-1-1 1a4.5 4.5 0 0 1-2.4-2.4l1-1-1-2z"/></svg><span>058-649-7991</span></a>
+  <a class="btn wa" href="https://wa.me/972586497991?text=Hi%20NEXORA%2C%20I%27d%20like%20to%20book%20a%20Home%20Check." target="_blank" rel="noopener"><svg viewBox="0 0 24 24" aria-hidden="true"><path d="M12 3a9 9 0 0 0-7.7 13.6L3 21l4.5-1.2A9 9 0 1 0 12 3z"/><path d="M9 8.5c0 3.6 2.9 6.5 6.5 6.5l1-1.6-2-1-1 1a4.5 4.5 0 0 1-2.4-2.4l1-1-1-2z"/></svg><span>058-649-7991</span></a>
 </div></header>
 <main class="wrap">
   <section class="hero"><div class="in">
@@ -28,8 +28,8 @@
       <div class="kicker">Smart Infrastructure · Ra'anana & the Sharon</div>
       <h1>Cameras, Wi-Fi, intercom &amp; smart home. <em>Installed properly.</em></h1>
       <p class="sub">NEXORA designs and installs the smart infrastructure of homes and businesses: fast Wi-Fi in every room, secure cameras, video intercoms and automations.</p>
-      <div class="ctas"><a class="btn wa" href="https://wa.me/972586497991?text=Hi%20NEXORA%2C%20I%27d%20like%20a%20free%20Home%20Check." target="_blank" rel="noopener"><svg viewBox="0 0 24 24" aria-hidden="true"><path d="M12 3a9 9 0 0 0-7.7 13.6L3 21l4.5-1.2A9 9 0 1 0 12 3z"/><path d="M9 8.5c0 3.6 2.9 6.5 6.5 6.5l1-1.6-2-1-1 1a4.5 4.5 0 0 1-2.4-2.4l1-1-1-2z"/></svg>WhatsApp us</a><a class="btn ghost" href="#book">Book a free Home Check</a></div>
-      <div class="offer"><svg viewBox="0 0 24 24" aria-hidden="true"><path d="M5 12.5l4.5 4.5L19 7.5"/></svg>Free Home Check for the first 5 homes in Ra'anana</div>
+      <div class="ctas"><a class="btn wa" href="https://wa.me/972586497991?text=Hi%20NEXORA%2C%20I%27d%20like%20to%20book%20a%20Home%20Check." target="_blank" rel="noopener"><svg viewBox="0 0 24 24" aria-hidden="true"><path d="M12 3a9 9 0 0 0-7.7 13.6L3 21l4.5-1.2A9 9 0 1 0 12 3z"/><path d="M9 8.5c0 3.6 2.9 6.5 6.5 6.5l1-1.6-2-1-1 1a4.5 4.5 0 0 1-2.4-2.4l1-1-1-2z"/></svg>WhatsApp us</a><a class="btn ghost" href="#book">Book a Home Check</a></div>
+      <div class="offer"><svg viewBox="0 0 24 24" aria-hidden="true"><path d="M5 12.5l4.5 4.5L19 7.5"/></svg>A clear quote after every Home Check</div>
     </div>
     <div class="stage" aria-hidden="true">
       <img class="i-villa" src="../img/villa.webp" alt="" width="200" height="400"><img class="i-turret" src="../img/turret.webp" alt="" width="400" height="420">
@@ -44,8 +44,8 @@
     <h3 class="h2" style="font-size:26px;margin-top:46px">Why NEXORA</h3><div class="why"><div><svg viewBox="0 0 24 24" aria-hidden="true"><path d="M12 21s-7-6.2-7-11.5a7 7 0 0 1 14 0C19 14.8 12 21 12 21z"/><circle cx="12" cy="9.5" r="2.5"/></svg><b>Local, in Ra'anana</b><p>Around the corner for the install, and after.</p></div><div><svg viewBox="0 0 24 24" aria-hidden="true"><path d="M4 5h16v11H9l-5 4z"/></svg><b>Hebrew, English &amp; French</b><p>Talk to us in your language.</p></div><div><svg viewBox="0 0 24 24" aria-hidden="true"><path d="M12 3l8 3v6c0 4.8-3.4 8-8 9.5C7.4 20 4 16.8 4 12V6z"/><path d="M8.5 12l2.5 2.5 4.5-5"/></svg><b>Secure by default</b><p>A separate network for cameras, updated firmware, no open ports.</p></div><div><svg viewBox="0 0 24 24" aria-hidden="true"><path d="M3 11l9-7 9 7"/><path d="M5 10v10h14V10"/><path d="M10 20v-5h4v5"/></svg><b>Your data stays home</b><p>Local recording and local automations, no subscription required.</p></div></div></section>
 
   <section class="block" id="book"><div class="book">
-    <div><h2 class="h2">Book your free Home Check</h2><p class="lead">Three details and we answer on WhatsApp.</p><div class="offer" style="margin-top:18px"><svg viewBox="0 0 24 24" aria-hidden="true"><path d="M5 12.5l4.5 4.5L19 7.5"/></svg>Free Home Check for the first 5 homes in Ra'anana</div></div>
-    <form class="form" data-wa="972586497991" data-tpl="Hi NEXORA, I&#x27;d like a free Home Check.
+    <div><h2 class="h2">Book your Home Check</h2><p class="lead">Three details and we answer on WhatsApp.</p><div class="offer" style="margin-top:18px"><svg viewBox="0 0 24 24" aria-hidden="true"><path d="M5 12.5l4.5 4.5L19 7.5"/></svg>A clear quote after every Home Check</div></div>
+    <form class="form" data-wa="972586497991" data-tpl="Hi NEXORA, I&#x27;d like to book a Home Check.
 Name: {name}
 City: {city}
 About: {needs}
@@ -59,11 +59,11 @@ About: {needs}
     </form>
   </div></section>
 
-  <section class="block" id="faq"><h2 class="h2">Questions</h2><div class="faq"><details><summary>Where do you work?</summary><p>Ra'anana, Kfar Saba, Hod Hasharon, Herzliya and the rest of the Sharon.</p></details><details><summary>How much is the Home Check?</summary><p>It's free for the first 5 homes in Ra'anana. After the visit you get a clear quote, with no obligation.</p></details><details><summary>Do I need a monthly subscription for cameras?</summary><p>No. Recording happens at your place, on the recorder. The manufacturers' apps to watch remotely are free; cloud storage is optional.</p></details><details><summary>Can you use my existing cables or conduits?</summary><p>Often, yes: we check where the existing conduits go and pull Cat6 through them when they allow it.</p></details><details><summary>What about electrical work?</summary><p>Anything on the 230 V network is done by a licensed electrician.</p></details><details><summary>Do you work with businesses?</summary><p>Yes: shops, offices, clinics and rentals, as well as homes.</p></details></div></section>
+  <section class="block" id="faq"><h2 class="h2">Questions</h2><div class="faq"><details><summary>Where do you work?</summary><p>Ra'anana, Kfar Saba, Hod Hasharon, Herzliya and the rest of the Sharon.</p></details><details><summary>What happens during the Home Check?</summary><p>We visit for about an hour: Wi-Fi measured room by room, then your cameras, cabling and smart home. After the visit you get a clear quote, with no obligation.</p></details><details><summary>Do I need a monthly subscription for cameras?</summary><p>No. Recording happens at your place, on the recorder. The manufacturers' apps to watch remotely are free; cloud storage is optional.</p></details><details><summary>Can you use my existing cables or conduits?</summary><p>Often, yes: we check where the existing conduits go and pull Cat6 through them when they allow it.</p></details><details><summary>What about electrical work?</summary><p>Anything on the 230 V network is done by a licensed electrician.</p></details><details><summary>Do you work with businesses?</summary><p>Yes: shops, offices, clinics and rentals, as well as homes.</p></details></div></section>
 
   <section class="contact" id="contact">
     <div><h2 class="h2">Contact</h2><p style="margin-top:10px;color:#B9CADB">Ra'anana &amp; the Sharon</p>
-      <a class="btn wa" style="margin-top:20px" href="https://wa.me/972586497991?text=Hi%20NEXORA%2C%20I%27d%20like%20a%20free%20Home%20Check." target="_blank" rel="noopener"><svg viewBox="0 0 24 24" aria-hidden="true"><path d="M12 3a9 9 0 0 0-7.7 13.6L3 21l4.5-1.2A9 9 0 1 0 12 3z"/><path d="M9 8.5c0 3.6 2.9 6.5 6.5 6.5l1-1.6-2-1-1 1a4.5 4.5 0 0 1-2.4-2.4l1-1-1-2z"/></svg>WhatsApp us</a></div>
+      <a class="btn wa" style="margin-top:20px" href="https://wa.me/972586497991?text=Hi%20NEXORA%2C%20I%27d%20like%20to%20book%20a%20Home%20Check." target="_blank" rel="noopener"><svg viewBox="0 0 24 24" aria-hidden="true"><path d="M12 3a9 9 0 0 0-7.7 13.6L3 21l4.5-1.2A9 9 0 1 0 12 3z"/><path d="M9 8.5c0 3.6 2.9 6.5 6.5 6.5l1-1.6-2-1-1 1a4.5 4.5 0 0 1-2.4-2.4l1-1-1-2z"/></svg>WhatsApp us</a></div>
     <ul>
       <li><a href="tel:+972586497991"><svg viewBox="0 0 24 24" aria-hidden="true"><path d="M5 4h4l2 5-2.5 1.5a11 11 0 0 0 5 5L15 13l5 2v4a2 2 0 0 1-2 2A16 16 0 0 1 3 6a2 2 0 0 1 2-2z"/></svg><span dir="ltr">058-649-7991</span></a></li>
       <li><a href="mailto:nexora.raanana@gmail.com"><svg viewBox="0 0 24 24" aria-hidden="true"><rect x="3" y="5" width="18" height="14" rx="2"/><path d="M3 7l9 6 9-6"/></svg>nexora.raanana@gmail.com</a></li>
@@ -72,7 +72,7 @@ About: {needs}
   </section>
 </main>
 <footer>© 2026 NEXORA · Smart Infrastructure · Ra'anana</footer>
-<a class="fab" href="https://wa.me/972586497991?text=Hi%20NEXORA%2C%20I%27d%20like%20a%20free%20Home%20Check." target="_blank" rel="noopener" aria-label="WhatsApp"><svg viewBox="0 0 24 24" aria-hidden="true"><path d="M12 3a9 9 0 0 0-7.7 13.6L3 21l4.5-1.2A9 9 0 1 0 12 3z"/><path d="M9 8.5c0 3.6 2.9 6.5 6.5 6.5l1-1.6-2-1-1 1a4.5 4.5 0 0 1-2.4-2.4l1-1-1-2z"/></svg></a>
+<a class="fab" href="https://wa.me/972586497991?text=Hi%20NEXORA%2C%20I%27d%20like%20to%20book%20a%20Home%20Check." target="_blank" rel="noopener" aria-label="WhatsApp"><svg viewBox="0 0 24 24" aria-hidden="true"><path d="M12 3a9 9 0 0 0-7.7 13.6L3 21l4.5-1.2A9 9 0 1 0 12 3z"/><path d="M9 8.5c0 3.6 2.9 6.5 6.5 6.5l1-1.6-2-1-1 1a4.5 4.5 0 0 1-2.4-2.4l1-1-1-2z"/></svg></a>
 <script src="../site.js"></script>
 </body>
 </html>

diff --git a/404.html b/404.html
@@ -1,7 +1,7 @@
 <!doctype html>
 <html lang="en"><head><meta charset="utf-8"><meta name="viewport" content="width=device-width, initial-scale=1">
 <title>NEXORA · Smart Infrastructure · Ra'anana</title>
-<meta name="description" content="NEXORA installs security cameras, Wi-Fi and Ethernet, video intercoms and smart home systems in Ra&#x27;anana and the Sharon. Free Home Check for the first 5 homes.">
+<meta name="description" content="NEXORA installs security cameras, Wi-Fi and Ethernet, video intercoms and smart home systems in Ra&#x27;anana and the Sharon. Home Check visit and a clear quote.">
 <link rel="canonical" href="https://nexoraraanana.github.io/"><link rel="alternate" hreflang="en" href="https://nexoraraanana.github.io/en/"><link rel="alternate" hreflang="fr" href="https://nexoraraanana.github.io/fr/"><link rel="alternate" hreflang="he" href="https://nexoraraanana.github.io/he/"><link rel="alternate" hreflang="x-default" href="https://nexoraraanana.github.io/">
 <link rel="icon" href="favicon.png">
 <script>(function () { var l = (navigator.language || 'en').toLowerCase();

diff --git a/index.html b/index.html
@@ -1,7 +1,7 @@
 <!doctype html>
 <html lang="en"><head><meta charset="utf-8"><meta name="viewport" content="width=device-width, initial-scale=1">
 <title>NEXORA · Smart Infrastructure · Ra'anana</title>
-<meta name="description" content="NEXORA installs security cameras, Wi-Fi and Ethernet, video intercoms and smart home systems in Ra&#x27;anana and the Sharon. Free Home Check for the first 5 homes.">
+<meta name="description" content="NEXORA installs security cameras, Wi-Fi and Ethernet, video intercoms and smart home systems in Ra&#x27;anana and the Sharon. Home Check visit and a clear quote.">
 <link rel="canonical" href="https://nexoraraanana.github.io/"><link rel="alternate" hreflang="en" href="https://nexoraraanana.github.io/en/"><link rel="alternate" hreflang="fr" href="https://nexoraraanana.github.io/fr/"><link rel="alternate" hreflang="he" href="https://nexoraraanana.github.io/he/"><link rel="alternate" hreflang="x-default" href="https://nexoraraanana.github.io/">
 <link rel="icon" href="favicon.png">
 <script>(function () { var l = (navigator.language || 'en').toLowerCase();
